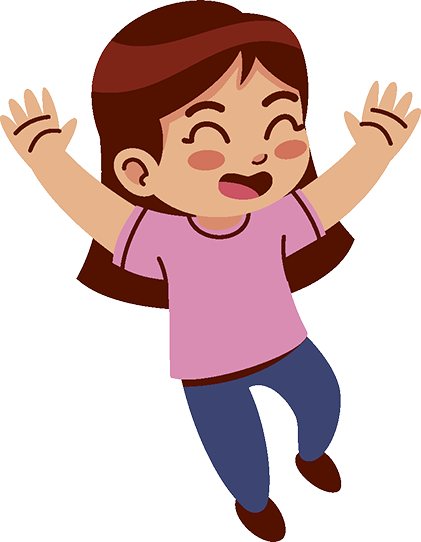
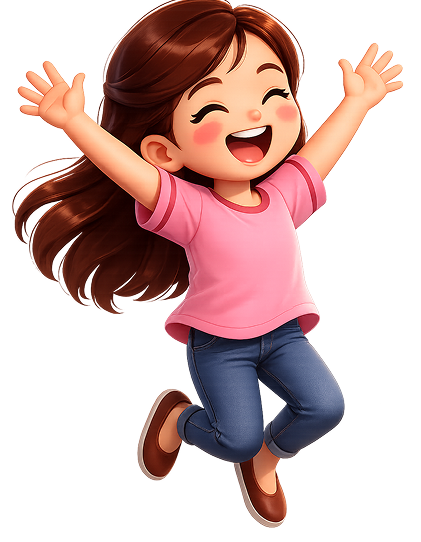
.

diff --git a/benefit-from-nature.html b/benefit-from-nature.html
@@ -152,7 +152,7 @@
                 ></video>
               </div>
 
-              <div class="swiper-slide">
+              <!-- <div class="swiper-slide">
                 <video
                   src="./assets/videos/nature3.mp4"
                   autoplay
@@ -160,7 +160,7 @@
                   loop
                   playsinline
                 ></video>
-              </div>
+              </div> -->
 
               <div class="swiper-slide">
                 <video
